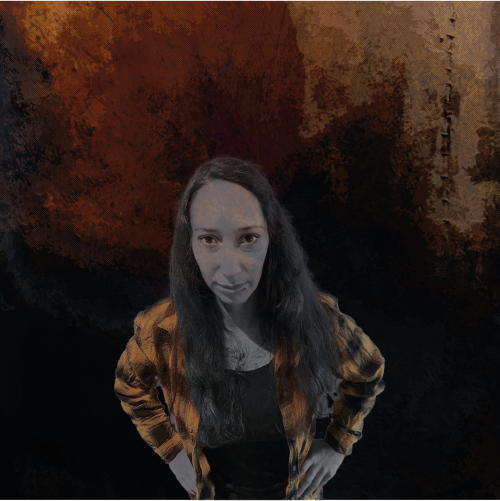
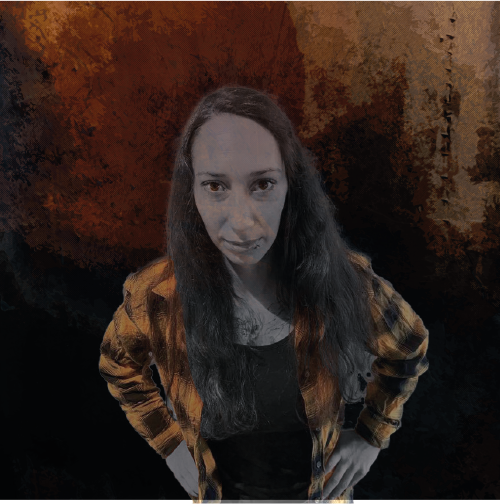
hero image finished

Changed region(s): [[0.0, 0.1497, 1.0, 1.0]]

diff --git a/css/style.css b/css/style.css
@@ -1,1 +1,1 @@
-*,*::before,*::after{box-sizing:border-box}*{margin:0;padding:0}html,body{width:100%;height:100vh}body{background-color:#2d2d2d;font-family:Poppins,sans-serif;line-height:1.5}p,h1,h2,h3,h4,h5,h6{overflow-wrap:break-word}li{list-style:none}a{text-decoration:none}.wrapper{display:grid;height:100vh;grid-template-rows:auto 1fr auto;grid-template-columns:100%}header{display:flex;flex-direction:column;width:100%;position:sticky;background-color:#000;top:0}.cover-header{height:7em;color:#fff;background-color:#fff}.cover-header .sticky-header{font-size:1.4rem}.navbar{display:flex;flex-direction:column;padding:0 .8em;top:0}.navbar .logo{color:#ededed;font-family:Playfair Display,serif;text-align:center;margin-bottom:.6em}.navbar .btn-hamburger{position:relative;visibility:visible;display:flex;opacity:1;background-color:rgba(0,0,0,0);border:none;cursor:pointer;font-size:1.2rem;color:#a28950;font-size:2rem;justify-content:flex-end}.navbar .menu{text-align:end;display:none;opacity:0;visibility:hidden}.navbar .btn-hamburger.menu-open+.menu{display:block;opacity:1;visibility:visible}.navbar ul{display:flex;flex-direction:column;justify-content:space-around;padding:0}.navbar ul li a{line-height:1.5em;color:#ededed;font-size:1.2rem}.navbar ul li a:hover{color:#a28950}.navbar .dropdown-menu a{margin-left:1.4em}main{flex:1;overflow:auto;height:100vh;font-size:1rem;background-color:#000;z-index:-2}.hero-container{position:relative;background:url(/src/img/mobile/hero-img-mobile.png);background-repeat:no-repeat;background-position:center center;background-size:cover;width:100%;height:100%;z-index:-1}footer{position:sticky;background-color:#000;bottom:0;text-align:center;color:#927854}@media only screen and (min-width: 479px){.navbar{display:flex;flex-direction:row;justify-content:space-around;align-items:baseline}.navbar .logo{color:#ededed;font-family:Playfair Display,serif;text-align:center;margin-bottom:.5em}.navbar .btn-hamburger{justify-content:flex-end;text-transform:uppercase;font-weight:500;letter-spacing:.1em;display:none;visibility:hidden;opacity:0}.navbar .menu{display:flex;opacity:1;visibility:visible;color:#6a2727}.navbar ul{display:flex;flex-direction:row;justify-content:space-around}.navbar ul li{font-size:1.2rem;display:inline-block;position:relative;text-align:left}.navbar ul li a{display:block;padding:8px 25px;color:#dbdbdb}.navbar .dropdown-menu{min-width:100%;display:none;position:absolute;left:0}.navbar .dropdown-menu a{margin-left:0}.navbar li:hover .dropdown-menu{display:block}}@media only screen and (min-width: 479px)and (min-width: 479px){.hero-container{position:relative;background:url(/src/img/desktop/hero-img.png);background-repeat:no-repeat;background-position:center center;background-size:cover;width:100%;height:100%;z-index:-1;background-attachment:fixed}.hero-container .hero-text-left-side{position:absolute}.hero-container .hero-design{font-family:Playfair Display,serif;color:#a28950;font-size:3.5rem}.hero-container .hero-photoshop{font-family:Playfair Display,serif;color:#a28950;font-size:2.5rem}.hero-container .hero-illustrator{font-family:Playfair Display,serif;color:#a28950;font-size:2.5rem}.hero-container .hero-indesign{font-family:Playfair Display,serif;color:#a28950;font-size:2.5rem}}@media only screen and (min-width: 479px)and (min-width: 479px)and (min-width: 768px){.hero-text-left-side{position:absolute;line-height:8em;letter-spacing:1.4em;text-align:center}.hero-design{font-family:Playfair Display,serif;color:#a28950;font-size:4rem;margin-top:15%;margin-left:12%}.hero-photoshop{font-family:Playfair Display,serif;color:#a28950;font-size:2.5rem;-webkit-transform:rotate(-5deg)}.hero-illustrator{font-family:Playfair Display,serif;color:#a28950;font-size:2.5rem;margin-top:2rem;-webkit-transform:rotate(5deg)}.hero-indesign{font-family:Playfair Display,serif;color:#a28950;font-size:2.5rem;-webkit-transform:rotate(-8deg)}}@media only screen and (min-width: 479px){.hero-and{position:absolute;color:#a28950;top:15%;left:50%;transform:translate(-50%, -50%);font-size:6em}}
+*,*::before,*::after{box-sizing:border-box}*{margin:0;padding:0}html,body{width:100%;height:100vh}body{background-color:#2d2d2d;font-family:Poppins,sans-serif;line-height:1.5}p,h1,h2,h3,h4,h5,h6{overflow-wrap:break-word}li{list-style:none}a{text-decoration:none}.wrapper{display:grid;height:100vh;grid-template-rows:auto 1fr auto;grid-template-columns:100%}header{display:flex;flex-direction:column;width:100%;position:sticky;background-color:#000;top:0}.cover-header{height:6em;color:#a71212;background-color:#fff}.cover-header .sticky-header{font-size:1.4rem}.navbar{display:flex;flex-direction:column;padding:0 .8em;top:0}.navbar .logo{color:#ededed;font-family:Playfair Display,serif;text-align:center;margin-bottom:.6em}.navbar .btn-hamburger{position:relative;visibility:visible;display:flex;opacity:1;background-color:rgba(0,0,0,0);border:none;cursor:pointer;font-size:1.2rem;color:#a28950;font-size:2rem;justify-content:flex-end;margin-bottom:.5em}.navbar .menu{text-align:end;display:none;opacity:0;visibility:hidden}.navbar .btn-hamburger.menu-open+.menu{display:block;opacity:1;visibility:visible}.navbar ul{display:flex;flex-direction:column;justify-content:space-around}.navbar ul li a{line-height:1.5em;color:#ededed;font-size:1.2rem}.navbar ul li a:hover{color:#a28950}main{flex:1;overflow:auto;height:100vh;font-size:1rem;background-color:#000;z-index:-2}.hero-container{background:url(/src/img/mobile/hero-img-mobile.png);background-repeat:no-repeat;background-position:center center;background-size:cover;width:100%;height:100%;z-index:-1;background-attachment:fixed}.hero-container .hero-design,.hero-container .hero-photoshop,.hero-container .hero-illustrator,.hero-container .hero-indesign,.hero-container .hero-and{display:none;opacity:0;visibility:hidden}footer{position:sticky;background-color:#000;bottom:0;text-align:center;color:#927854}@media only screen and (min-width: 699px){.navbar{display:flex;flex-direction:row;align-items:baseline;justify-content:space-around}.navbar .logo{margin:.5em 0}.navbar .btn-hamburger{display:none;visibility:hidden;opacity:0}.navbar .menu{display:flex;opacity:1;visibility:visible}.navbar ul{flex-direction:row;gap:3em}.navbar ul li{font-size:1.9rem;display:inline-block;position:relative;text-align:left}.navbar .dropdown-menu{display:none;position:absolute;left:0}.navbar .dropdown-menu a{margin-left:0}.navbar li:hover .dropdown-menu{display:block}.hero-container{background:url(/src/img/desktop/hero_profile.png);background-repeat:no-repeat;background-position:center center;background-size:cover;width:100%;height:100%;background-attachment:fixed}}@media only screen and (min-width: 767px){.hero-container{display:flex;margin:0 1em}.hero-container .hero-text-left-side{margin-top:10em;flex-wrap:wrap;letter-spacing:1.2em;text-align:center}.hero-container .hero-text-left-side .hero-design{display:flex;opacity:1;visibility:visible}.hero-container .hero-text-left-side .hero-design{flex-direction:column;justify-content:center;font-family:Playfair Display,serif;color:#a28950;font-size:3.6rem;transform:rotate(-20deg)}.hero-and{color:#a28950;top:15%;left:50%;transform:translate(-50%, -50%);font-size:6em}}

diff --git a/src/scss/style.scss b/src/scss/style.scss
@@ -2,6 +2,7 @@ $font-stack: Poppins, sans-serif;
 $headline-stack: Playfair Display, serif;
 $primary-color: #2d2d2d;
 $secondery-color: #000000;
+$golden-color: #a28950;
 $font-color: #ededed;
 
 *,
@@ -53,8 +54,8 @@ header {
   top: 0;
 }
 .cover-header {
-  height: 7em;
-  color: rgb(255, 255, 255);
+  height: 6em;
+  color: rgb(167, 18, 18);
   background-color: #ffffff;
   .sticky-header {
     font-size: 1.4rem;
@@ -80,9 +81,10 @@ header {
     border: none;
     cursor: pointer;
     font-size: 1.2rem;
-    color: #a28950;
+    color: $golden-color;
     font-size: 2rem;
     justify-content: flex-end;
+    margin-bottom: 0.5em;
   }
   .menu {
     text-align: end;
@@ -99,7 +101,6 @@ header {
     display: flex;
     flex-direction: column;
     justify-content: space-around;
-    padding: 0;
   }
   ul li a {
     line-height: 1.5em;
@@ -107,10 +108,7 @@ header {
     font-size: 1.2rem;
   }
   ul li a:hover {
-    color: #a28950;
-  }
-  .dropdown-menu a {
-    margin-left: 1.4em;
+    color: $golden-color;
   }
 }
 main {
@@ -122,7 +120,6 @@ main {
   z-index: -2;
 }
 .hero-container {
-  position: relative;
   background: url(/src/img/mobile/hero-img-mobile.png);
   background-repeat: no-repeat;
   background-position: center center;
@@ -130,62 +127,59 @@ main {
   width: 100%;
   height: 100%;
   z-index: -1;
-  // background-attachment: fixed;
+  background-attachment: fixed;
+
+  .hero-design,
+  .hero-photoshop,
+  .hero-illustrator,
+  .hero-indesign,
+  .hero-and {
+    display: none;
+    opacity: 0;
+    visibility: hidden;
+  }
 }
+
 footer {
   position: sticky;
   background-color: $secondery-color;
   bottom: 0;
   text-align: center;
-  color: rgb(146, 120, 84);
+  color: #927854;
 }
 
 @media only screen and (min-width: 479px) {
+}
+@media only screen and (min-width: 699px) {
   .navbar {
     display: flex;
     flex-direction: row;
-    justify-content: space-around;
     align-items: baseline;
+    justify-content: space-around;
     .logo {
-      color: $font-color;
-      font-family: $headline-stack;
-      text-align: center;
-      margin-bottom: 0.5em;
+      margin: 0.5em 0;
     }
     .btn-hamburger {
-      justify-content: flex-end;
-      text-transform: uppercase;
-      font-weight: 500;
-      letter-spacing: 0.1em;
       display: none;
       visibility: hidden;
       opacity: 0;
     }
     .menu {
-      // display: block;
       display: flex;
       opacity: 1;
       visibility: visible;
-      color: #6a2727;
     }
     ul {
-      display: flex;
       flex-direction: row;
-      justify-content: space-around;
+      gap: 3em;
     }
     ul li {
-      font-size: 1.2rem;
+      font-size: 1.9rem;
       display: inline-block;
       position: relative;
       text-align: left;
     }
-    ul li a {
-      display: block;
-      padding: 8px 25px;
-      color: rgb(219, 219, 219);
-    }
     .dropdown-menu {
-      min-width: 100%;
       display: none;
       position: absolute;
       // z-index: 999;
@@ -198,100 +192,49 @@ footer {
       display: block;
     }
   }
+  .hero-container {
+    background: url(/src/img/desktop/hero_profile.png);
+    background-repeat: no-repeat;
+    background-position: center center;
+    background-size: cover;
+    width: 100%;
+    height: 100%;
+    background-attachment: fixed;
+  }
+}
+@media only screen and (min-width: 767px) {
+  .hero-container {
+    display: flex;
+    margin: 0 1em;
 
-  @media screen and (min-width: 479px) {
-    .hero-container {
-      position: relative;
-      background: url(/src/img/desktop/hero-img.png);
-      background-repeat: no-repeat;
-      background-position: center center;
-      background-size: cover;
-      width: 100%;
-      height: 100%;
-      z-index: -1;
-      background-attachment: fixed;
-      .hero-text-left-side {
-        position: absolute;
-        // -webkit-transform: rotate(-5deg);
-        // -moz-transform: rotate(-55eg);
-        // -ms-transform: rotate(-5deg);
-        // -o-transform: rotate(-5deg);
+    .hero-text-left-side {
+      margin-top: 10em;
+      flex-wrap: wrap;
+      letter-spacing: 1.2em;
+      text-align: center;
+      .hero-design {
+        display: flex;
+        opacity: 1;
+        visibility: visible;
       }
       .hero-design {
+        flex-direction: column;
+        justify-content: center;
         font-family: $headline-stack;
-        color: #a28950;
-        font-size: 3.5rem;
-      }
-      .hero-photoshop {
-        font-family: $headline-stack;
-        color: #a28950;
-        font-size: 2.5rem;
-      }
-      .hero-illustrator {
-        font-family: $headline-stack;
-        color: #a28950;
-        font-size: 2.5rem;
-      }
-      .hero-indesign {
-        font-family: $headline-stack;
-        color: #a28950;
-        font-size: 2.5rem;
-      }
-    }
-
-    @media only screen and (min-width: 768px) {
-      .hero-text-left-side {
-        position: absolute;
-        // top: 4.3em;
-        line-height: 8em;
-        // top: 36%;
-        // left: 18%;
-        // transform: translate(-50%, -50%);
-        letter-spacing: 1.4em;
-        text-align: center;
-        // -webkit-transform: rotate(-5deg);
-        // -moz-transform: rotate(-55eg);
-        // -ms-transform: rotate(-5deg);
-        // -o-transform: rotate(-5deg);
-      }
-      .hero-design {
-        font-family: $headline-stack;
-        color: #a28950;
-        font-size: 4rem;
-        margin-top: 15%;
-        margin-left: 12%;
-        // top: 70%;
-        // left: 60%;
-        // transform: translate(-49%, -50%);
-        // margin-left: 3.5em;
-      }
-      .hero-photoshop {
-        font-family: $headline-stack;
-        color: #a28950;
-        font-size: 2.5rem;
-        -webkit-transform: rotate(-5deg);
-      }
-      .hero-illustrator {
-        font-family: $headline-stack;
-        color: #a28950;
-        font-size: 2.5rem;
-        margin-top: 2rem;
-        -webkit-transform: rotate(5deg);
-      }
-      .hero-indesign {
-        font-family: $headline-stack;
-        color: #a28950;
-        font-size: 2.5rem;
-        -webkit-transform: rotate(-8deg);
+        color: $golden-color;
+        font-size: 3.6rem;
+        transform: rotate(-20deg);
       }
     }
   }
   .hero-and {
-    position: absolute;
-    color: #a28950;
+    color: $golden-color;
     top: 15%;
     left: 50%;
     transform: translate(-50%, -50%);
     font-size: 6em;
   }
+}
+
+@media screen and (min-width: 1023px) {
 }

diff --git a/src/index.html b/src/index.html
@@ -49,13 +49,19 @@
       </header>
       <main>
         <section class="hero-container">
-          <div class="hero-text-left-side">
-            <p class="hero-design">Design</p>
-            <p class="hero-photoshop">Photoshop</p>
-            <p class="hero-illustrator">Illustrator</p>
-            <p class="hero-indesign">Indesign</p>
-          </div>
+          <ul class="hero-text-left-side">
+            <li class="hero-design">Design</li>
+            <li class="hero-photoshop">Photoshop</li>
+            <li class="hero-illustrator">Illustrator</li>
+            <li class="hero-indesign">Indesign</li>
+          </ul>
           <p class="hero-and">&</p>
+          <!-- <ul class="hero-text-right-side">
+            <li class="hero-design">Code</li>
+            <li class="hero-photoshop">Html&Css</li>
+            <li class="hero-illustrator">JavaScript</li>
+            <li class="hero-indesign">JavaScript</li>
+          </ul> -->
         </section>
       </main>
       <footer>FOOTER</footer>

diff --git a/src/scss/_hero-section.scss b/src/scss/_hero-section.scss
@@ -1,0 +1,37 @@
+// .hero-container {
+//   //   position: relative;
+//   background: url(/src/img/mobile/hero-img-mobile.png);
+//   background-repeat: no-repeat;
+//   background-position: center center;
+//   background-size: cover;
+//   width: 100%;
+//   height: 100%;
+//   z-index: -1;
+//   background-attachment: fixed;
+//   .hero-text-left-side {
+//     // position: absolute;
+//     // top: 10%;
+//     // left: 30%;
+//     // transform: translate(-10%, -30%);
+//   }
+//   .hero-design {
+//     font-family: $headline-stack;
+//     color: #a28950;
+//     font-size: 3rem;
+//   }
+//   .hero-photoshop {
+//     font-family: $headline-stack;
+//     color: #a28950;
+//     font-size: 2rem;
+//   }
+//   .hero-illustrator {
+//     font-family: $headline-stack;
+//     color: #a28950;
+//     font-size: 2rem;
+//   }
+//   .hero-indesign {
+//     font-family: $headline-stack;
+//     color: #a28950;
+//     font-size: 2rem;
+//   }
+// }
